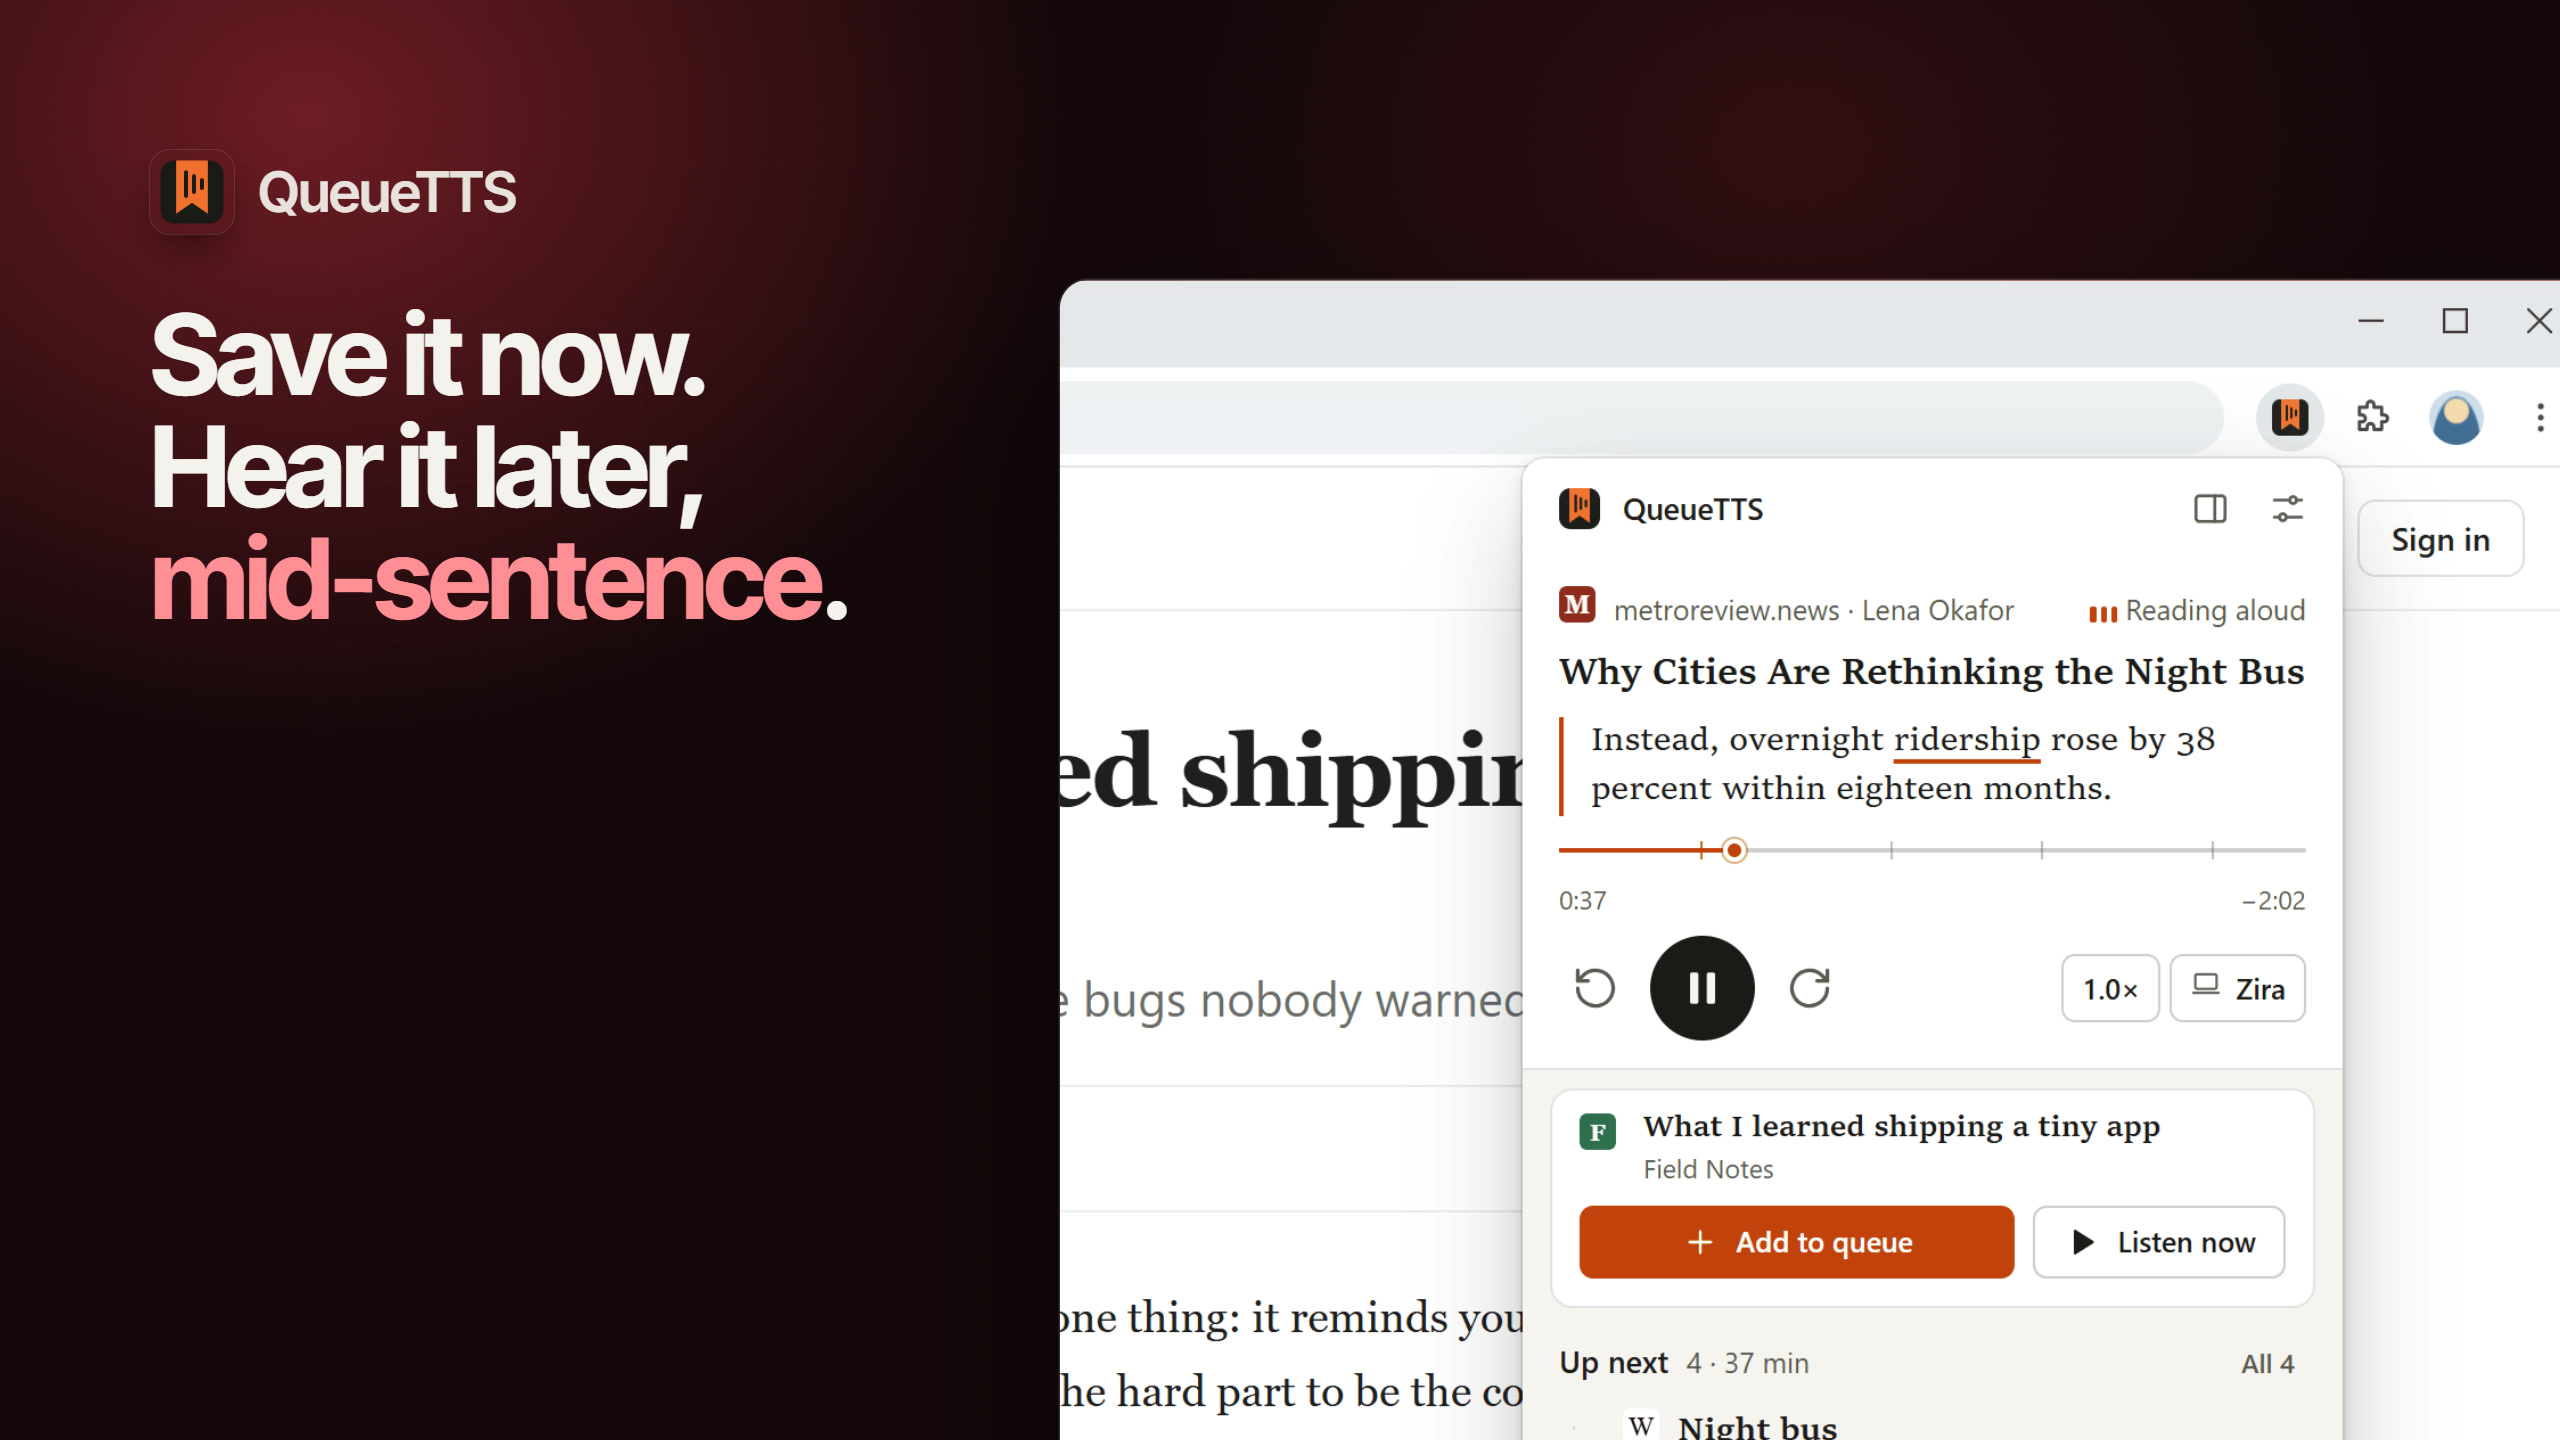
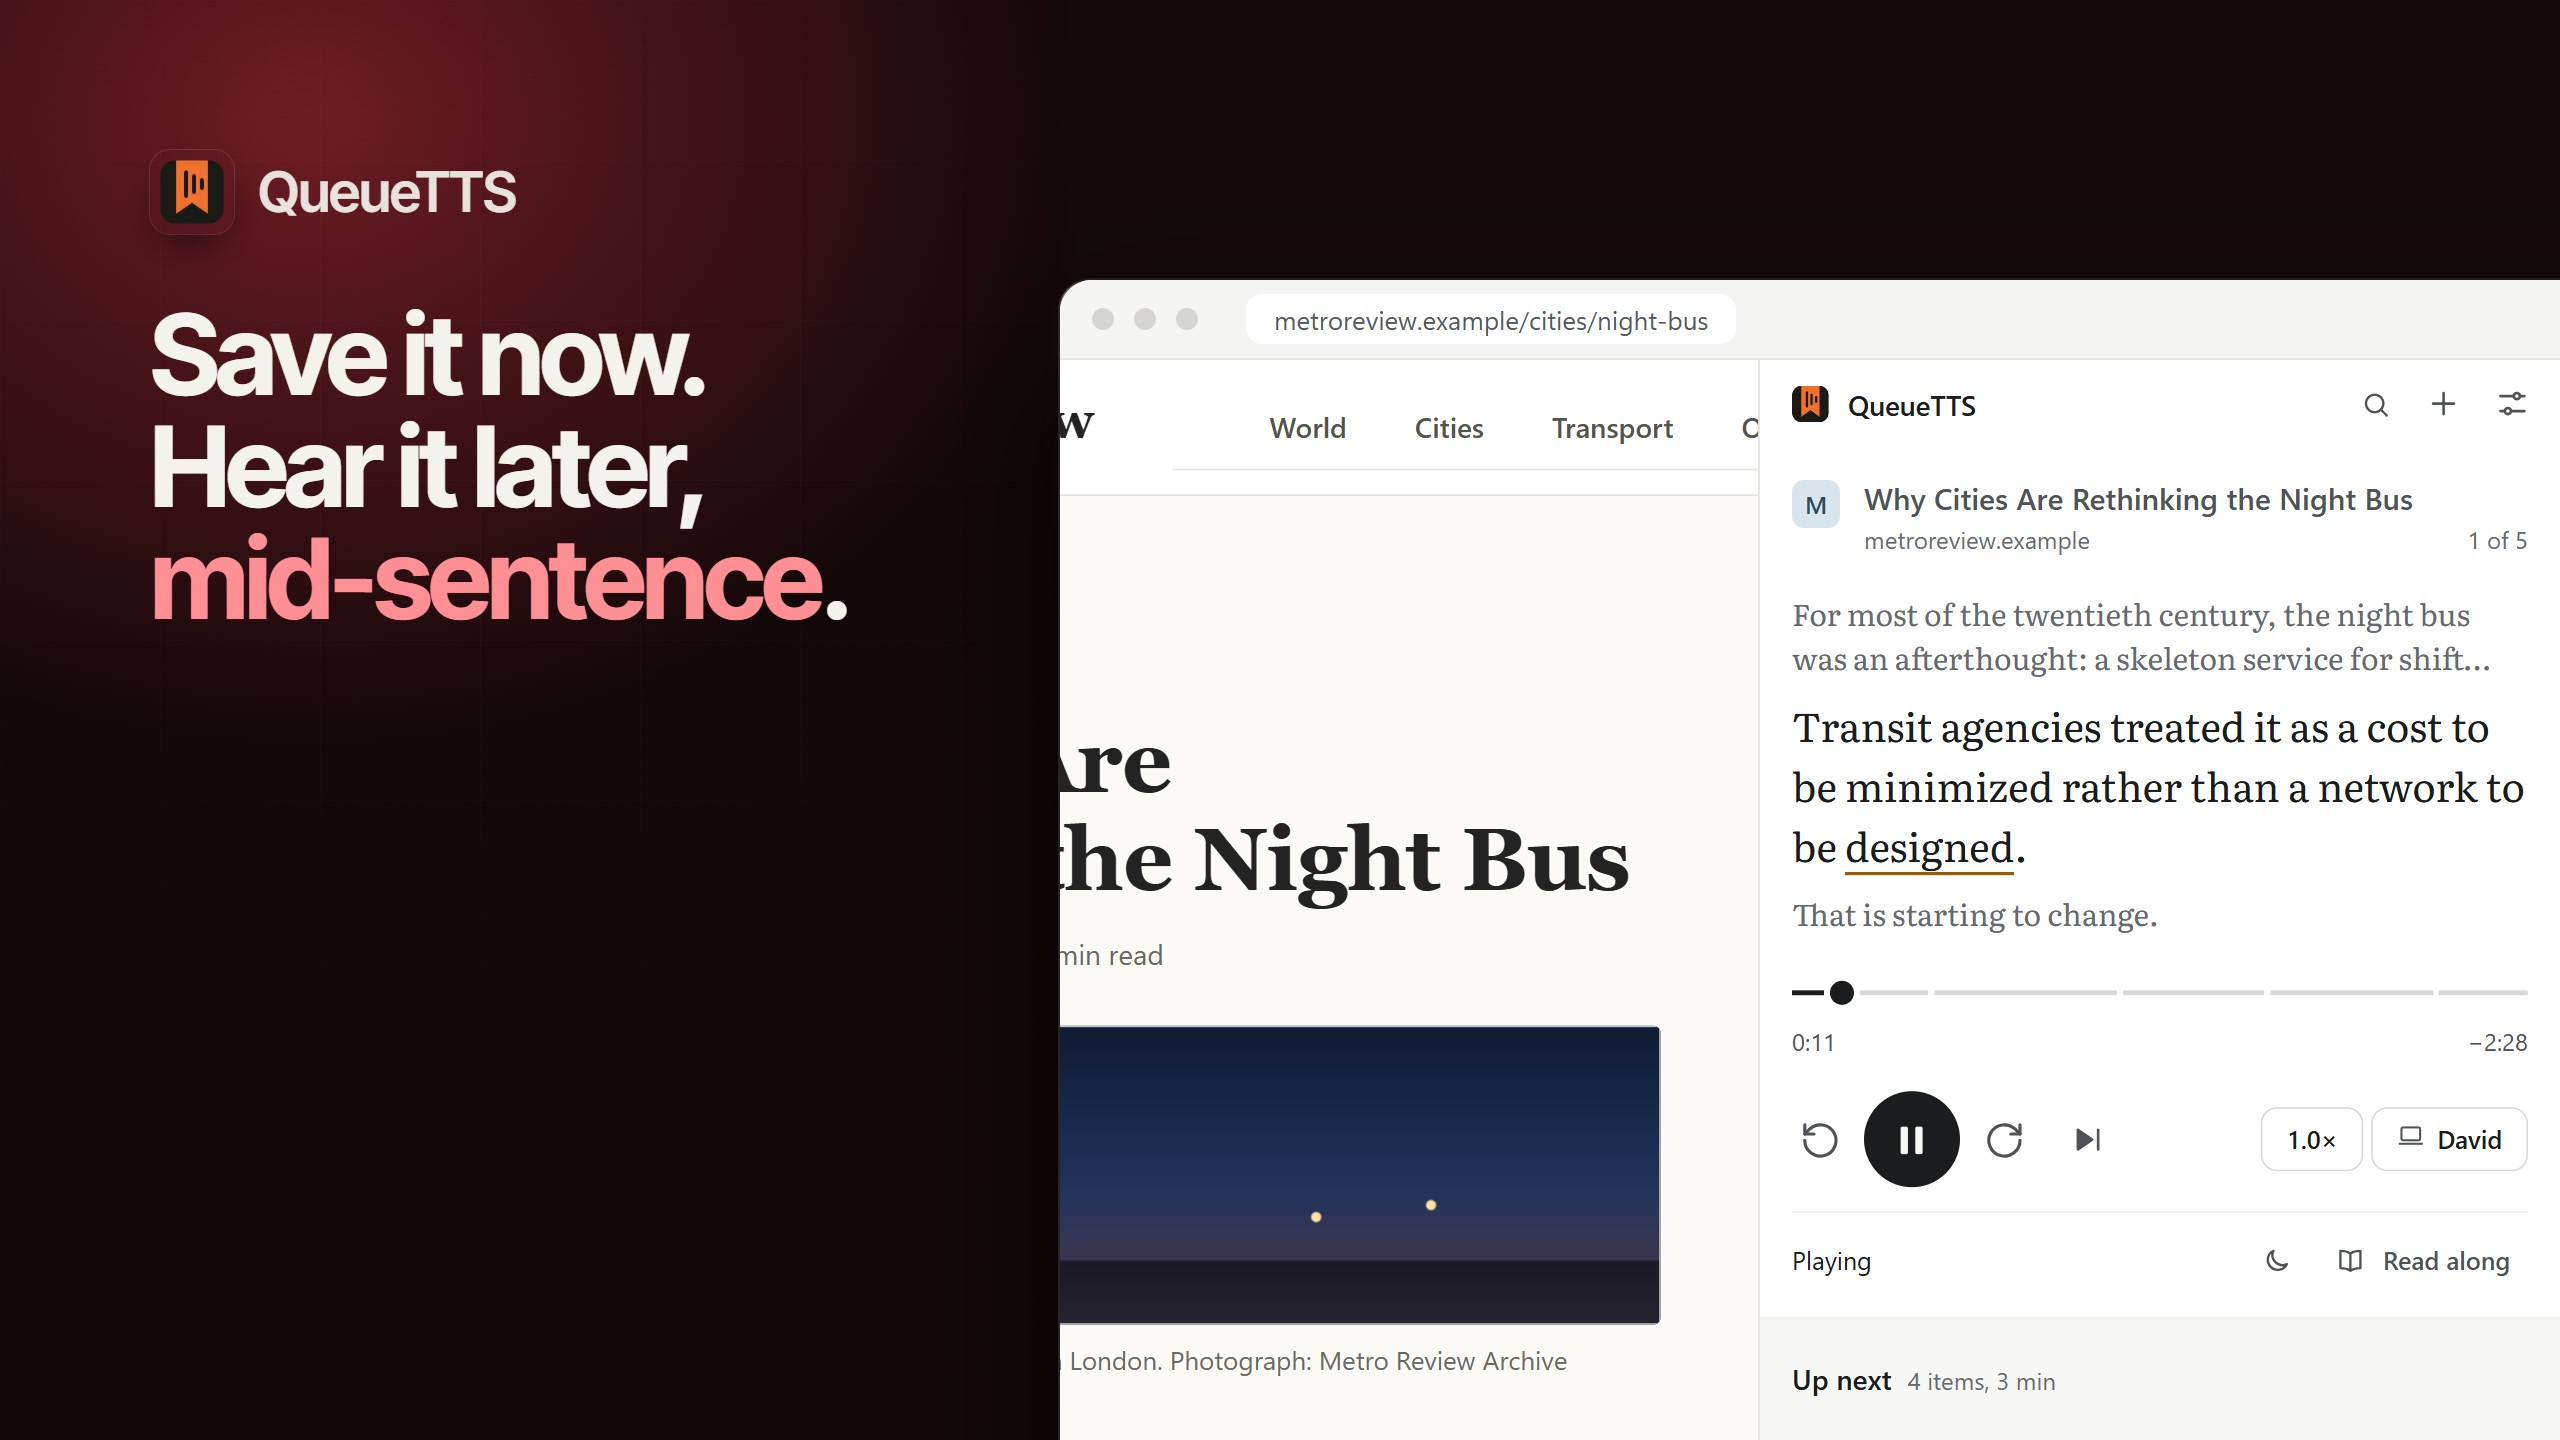
Update the QueueTTS tile

Changed region(s): [[0.4062, 0.1875, 1.0, 1.0], [0.6562, 0.0312, 0.75, 0.1562], [0.875, 0.9375, 0.9062, 0.9688]]

diff --git a/README.md b/README.md
@@ -48,7 +48,7 @@ Hi, stranger! I'm Mahan. I spend most of my time building tools for developers a
       <p><sub>Chrome extension · React, TypeScript, WXT · MIT</sub></p>
     </td>
     <td width="50%" valign="top">
-      <a href="https://github.com/Mahan-Imanian/QueueTTS"><img alt="QueueTTS: Save it now. Hear it later, mid-sentence. Beside it, the popup over a blog post, reading an article aloud with the current word underlined and two more queued." src="assets/tile-queuetts.jpg" width="100%"></a>
+      <a href="https://github.com/Mahan-Imanian/QueueTTS"><img alt="QueueTTS: Save it now. Hear it later, mid-sentence. Beside it, the side panel next to a news article, with the sentence being read in large type and the spoken word underlined." src="assets/tile-queuetts.jpg" width="100%"></a>
       <h3><a href="https://github.com/Mahan-Imanian/QueueTTS">QueueTTS</a></h3>
       <p>Save an article with a shortcut and it joins a queue to be read aloud, in order, using the voices already on the machine. Close the tab or restart the browser and it resumes at the sentence you left.
 </p>
